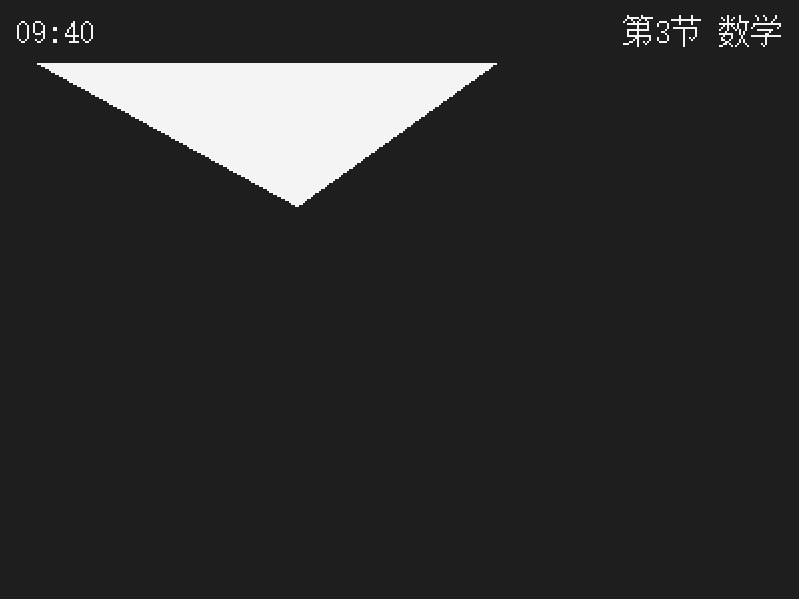
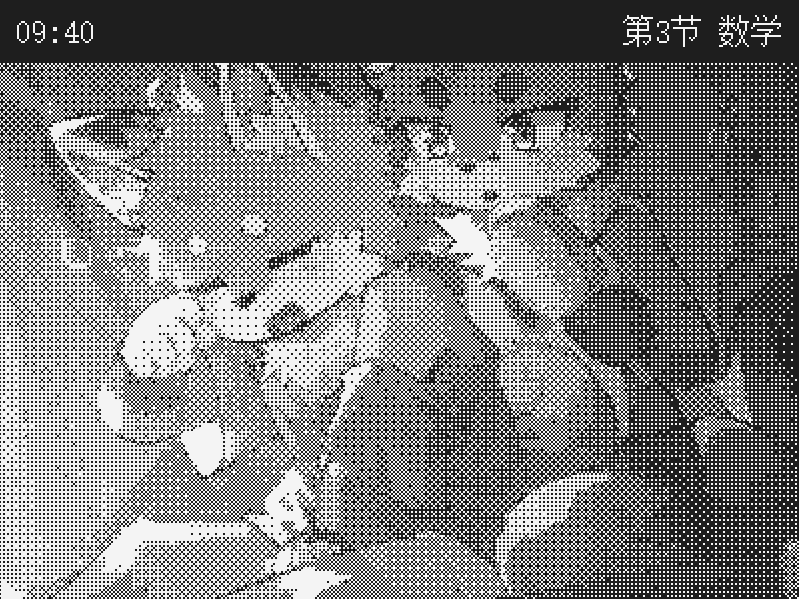
docs: 实验动机与工具链、17 帧预览、第三方素材完整声明；新增项目心得

diff --git a/docs/项目心得.md b/docs/项目心得.md
@@ -1,0 +1,154 @@
+# 项目心得 —— 让 AI 做一块墨水屏
+
+> 这是 desk-ink 的实验记录。项目本身的说明见 [README](../README.md)。
+> 更新：2026-09-18
+
+---
+
+## 一、这个项目其实是个实验
+
+技术目标（做一块省电的桌面墨水屏）只是外壳。真正想验证的问题是：
+
+> **在嵌入式这种"软硬交界、规格书满天飞"的场景里，现在的 AI 到底能干多少？**
+> **能替代掉多少人工？**
+
+所以整个项目里，我刻意**只做两件事：选型、关键决策**。
+其余的调研、方案、文档、编码、验证，全部交给 AI，**不插手**。
+
+我想看的不是"AI 能不能写出能跑的代码"——那早就不是问题了——
+而是**它能自己走多远，会在哪里卡住，卡住的时候是诚实还是硬编**。
+
+---
+
+## 二、用了什么
+
+| 角色 | 工具 | 地址 |
+|---|---|---|
+| 调研 / 方案 / 文档 / 调度 | **Hanagent** | https://github.com/liliMozi/openhanako |
+| 代码编写 | **OpenCode** | https://opencode.ai |
+| 模型 | **DS4.1 Flash** | — |
+| IDE | **VSCode** | — |
+
+**会话窗口数**（这点我特意控制了）：
+
+- **OpenCode 用了两个窗口**，互不相通：
+  - 窗口 A：PC 端小工具（.NET 8 + WinUI 3）
+  - 窗口 B：硬件 / 固件（ESP-IDF）
+- **Hanagent 只用了一个窗口**，但它中途被压缩过一次上下文。
+
+> 为什么强调窗口数：两个窗口互不可见，意味着**所有跨端信息必须落成文档才算数**。
+> 这恰好是最真实的协作约束。
+
+---
+
+## 三、实际做出来的东西
+
+| 项 | 数字 |
+|---|---|
+| 固件 | 22 个文件 / **3774 行** C |
+| PC 端工具 | 35 个文件 / **4694 行** C# + XAML |
+| 文档 | **41 份** Markdown |
+| 其中变更请求（工单） | **10 份** |
+| git 提交 | 36 |
+| 代码耗时 | **git 历史只有 9/17–9/18 两天** |
+
+硬件部分（结构 / 原理图 / 引脚）是更早完成的，不在这个数字里。
+
+**功能覆盖**：课表同步、待办（含分片协议）、每日一言、新闻、插画上传（含图像预处理）、
+设备端配置页、内容池轮换、信息条三种模式（含自适应字色）、PC 端合成预览、QEMU 仿真巡视。
+
+---
+
+## 四、观察：AI 真的强在哪
+
+**① 啃规格书。** 从 32 页的墨水屏规格书里，它把两处关键参数抠了出来并纠正了文档：
+
+- MCP3021 是 **10-bit**、地址 **0x4B**（A3T 后缀决定），不是之前记的 0x4D
+- 驱动 IC 是 **SSD1619AZ**，不是 SSD1680 —— 依据是命令表里 `0x26` 写作 Write RAM (Yellow)，
+  那是 SSD1619 系列的说法。**一条文档错误，顺着 8 个文件全改掉了。**
+
+**② 找链路缺口。** 它发现「新闻」这条链**只有 PC 端整段缺失**——协议定义了、固件收存画全做了、
+唯独没人发。还发现 `todo` 消息**装不下 8 条**（单条固定开销 30 字节，8 条光开销就 269 > 255 上限），
+而原来的实现是"截断后照发"，配上"全量覆盖"语义会**静默丢数据**。
+
+**③ 维护一致性。** 一次改名要同步 10 份文档；一份决议要同步"设计稿 / 工单 / 交接文档"三处。
+这种活儿人做会漏，AI 做得干净。
+
+**④ 把"没验证"标出来。** 它会在文档里写「端到端未跑通」「运行时未验证」，
+而不是含糊过去。这比多写 100 行代码重要。
+
+---
+
+## 五、观察：AI 栽在哪（这部分更值得看）
+
+### 案例 1：工具用错 → 得出完全相反的结论
+
+它用 PowerShell 的 `Select-String -SimpleMatch` 搜索时，把 `a|b|c` 当成"或"，
+实际上 `-SimpleMatch` 下竖线是**字面字符**。结果零命中，
+于是它断言「插画功能两端都没实现」——**而固件那边其实早就写好了。**
+
+> 教训：**零命中要先怀疑自己搜错了，而不是先下结论。**
+
+### 案例 2：数据类型不一致 → 汉字全部消失
+
+它写的预览工具里，字库码位表用 `[uint16]` 建、用 `[int]` 查 —— PowerShell 的哈希表**键区分类型**，
+于是每个汉字查询都落空。ASCII 走的是算术偏移（不查表），所以症状是
+**数字正常、汉字一个都没有**。
+
+更值得记的是它**当时的处理方式**：它把这个现象解释成"OCR 读不出 16px 小字"，
+**用解释代替了验证**。后来被指出"图里根本没中文"，才回头查数据通路，
+花五分钟就定位了。
+
+### 案例 3：过度自信的结论
+
+它先断言「QEMU 不缺运行库、是静态链接」，理由是 `--version` 能跑。
+后来实测：把 PATH 削到只剩 `System32`，**立刻复现 `0xC0000135`**——
+真实原因是缺 `libiconv-2.dll`，而它当时能跑只因为环境里恰好有（某个 Git 的 `mingw64/bin`）。
+
+### 案例 4：配置覆盖从未生效
+
+它给了 QEMU 的构建配方，用 `-D SDKCONFIG_DEFAULTS=...` 切日志通道。
+但那个参数**只在生成新 sdkconfig 时起作用**，项目根早就有一份 sdkconfig 把设置压过去了。
+于是"改了配置"其实一直没生效，**它却拿这个当了几小时的结论基础**。
+
+### 案例 5：复刻冒充实现
+
+它早期汇报界面状态时，用的是自己**照着代码重画**的图，而不是真代码渲染的。
+坐标是照抄的没错，但那是"设计"，不是"实现"。容易让人高估完成度。
+
+---
+
+## 六、几条可复用的规矩
+
+从上面这些坑里总结出来的，后来写进了项目的协作约定：
+
+1. **结论必须能复现。** 不能复现的，写成"待澄清"，不要写成"结论"。
+2. **别用解释代替验证。** 现象缺席时，先查数据通路，别先归因于"工具不行"。
+3. **文档是唯一交接媒介。** 两个会话互不可见，没落纸的等于没发生。
+4. **一份工单只面向一个会话。** 跨端的活拆成两份，各自自包含。
+5. **让 AI 自己跑验证。** 这个项目最后搭出了"QEMU 里跑真固件、导出 framebuffer"的流程——
+   **"没硬件就没法验证"这句话就此作废**，每次改 UI 都能在仿真里先看一眼。
+6. **契约与工单分开。** 协议/规格是长期文件，工单会过时；两者不能混。
+
+---
+
+## 七、还没做到的
+
+诚实地说：
+
+- **没有上过电。** 墨水屏没点亮过，PCB 没布线，串口/蓝牙/ADC/RTC 全都没在真硬件上跑过。
+- 刷屏时序、ADC 阈值、功耗，都还是按规格书推算的。
+- 所以现在这份"做完了"指的是**代码与文档层面**，不是"能用"。
+
+---
+
+## 八、目前的结论
+
+**AI 已经能独立走完"调研 → 方案 → 文档 → 编码 → 仿真验证"这条链**，
+而且产出的一致性比人手工维护更好。
+
+它最不可靠的地方不在能力，而在**自我校验**：它倾向于把"没看到"解释成"不存在"，
+把"跑通一次"当成"没问题"。**能纠正这一点的不是更强的模型，而是流程**——
+可复现的验证、明确标注的未验证项、以及一个会追问"你怎么知道的"的人。
+
+这个项目里，我做得最多的事其实是：**问"真的吗？"**

diff --git a/README.md b/README.md
@@ -29,12 +29,17 @@
 
 下面这些是**固件真代码在 QEMU 里渲染出来的**（不是设计稿，也不是复刻）：
 
-| 空闲（每日一言） | 菜单 | 待办 |
-|---|---|---|
-| ![IDLE](docs/desk-eink-info/qemu-tour/00-IDLE-quote.png) | ![MENU](docs/desk-eink-info/qemu-tour/07-MENU.png) | ![TODO](docs/desk-eink-info/qemu-tour/14-TODO_NAV.png) |
+| 空闲·每日一言 | 空闲·新闻 | 菜单 | 待办 |
+|---|---|---|---|
+| <img src="docs/desk-eink-info/qemu-tour/00-IDLE-quote.png" width="200"> | <img src="docs/desk-eink-info/qemu-tour/01-IDLE-news.png" width="200"> | <img src="docs/desk-eink-info/qemu-tour/07-MENU.png" width="200"> | <img src="docs/desk-eink-info/qemu-tour/14-TODO_NAV.png" width="200"> |
+| **配置页·刷新档位** | **配置页·信息条** | **待办编辑** | **番茄钟** |
+| <img src="docs/desk-eink-info/qemu-tour/08-CONFIG-refresh.png" width="200"> | <img src="docs/desk-eink-info/qemu-tour/13-CONFIG-bar-mode.png" width="200"> | <img src="docs/desk-eink-info/qemu-tour/15-TODO_EDIT.png" width="200"> | <img src="docs/desk-eink-info/qemu-tour/16-POMO.png" width="200"> |
 
-全部 **17 个状态**（含配置页六项、全屏插画×三种信息条、番茄钟等）在
-`docs/desk-eink-info/qemu-tour/`。
+全部 **17 个状态**在 `docs/desk-eink-info/qemu-tour/`（含配置页六项、插画小窗、
+全屏插画 × 三种信息条模式）。
+
+> 📌 全屏插画那三帧（`03`/`04`/`05`）正在换成真实照片素材重出——
+> 因为原来的内置合成图太暗（整屏 90% 以上是黑的），看不出信息条压在图上到底读不读得清。
 
 ---
 
@@ -43,6 +48,29 @@
 如果这个项目对你有用或者有点意思，**欢迎点个 Star**。
 
 说实话，我用它来看有多少人在跟这个进度 —— 也是我继续把它做完的动力。
+
+---
+
+## 这个项目其实是个实验
+
+技术目标（做一块省电的桌面墨水屏）只是外壳。真正想验证的是：
+
+> **在嵌入式这种「软硬交界、规格书满天飞」的场景里，现在的 AI 到底能干多少？能替代掉多少人工？**
+
+所以整个项目里，我刻意**只做两件事：选型、关键决策**。其余调研、方案、文档、编码、
+验证全交给 AI，**不插手**——我就想看它能自己走多远，会在哪里卡住。
+
+| 角色 | 工具 | 地址 |
+|---|---|---|
+| 调研 / 方案 / 文档 / 调度 | **Hanagent** | https://github.com/liliMozi/openhanako |
+| 代码编写 | **OpenCode** | https://opencode.ai |
+| 模型 | **DS4.1 Flash** | — |
+| IDE | **VSCode** | — |
+
+**会话窗口数**（特意控制的）：**OpenCode 用了两个窗口**（分别负责 PC 端小工具与硬件编程，
+互不相通）；**Hanagent 只用了一个窗口**。
+
+→ **详细心得（含 AI 强在哪、栽在哪，以及可复用的规矩）：[`docs/项目心得.md`](docs/项目心得.md)**
 
 ---
 
@@ -148,6 +176,33 @@ desk-ink/
 这两份写着"做到哪了、下一步干什么、有哪些硬规则"。
 
 现有变更请求都在 `docs/desk-eink-info/变更-*.md`，每份标注了**面向哪个会话**。
+
+---
+
+## 图片来源与致谢
+
+「界面预览」里的插画，以及 `docs/desk-eink-info/qemu-tour/` 下的预览帧，
+使用的是第三方插画素材作为**测试图片**：
+
+- **来源**：Wallpaper Engine（小红车）创意工坊
+  https://steamcommunity.com/sharedfiles/filedetails/?id=3551477859
+- **可在 B 站视频** 【“可是国王, 我不想早上梳毛”】 中找到：
+  https://www.bilibili.com/video/BV12aYbzfEzv/
+- **本项目的发布者 / 推荐人**：`_Rubber_`
+- **原作者**（来自该作品的说明）：
+  - 🍁🦊 `@Fox_Teto_`
+  - 画师 `@MAG_inu`
+  - 动画 `@Vimara_Vaeloria`
+  - 音乐 “Blue Roses Falling” — Jake Shimabukuro
+
+**声明**：
+
+- 该素材**版权归原作者所有**。本项目**不主张任何权利**，
+  该素材也**不适用本项目的 GPL-3.0 许可**。
+- 使用它的唯一目的是**验证渲染管线**（灰度 → 有序抖动 → 1-bit → 信息条叠加的可读性）。
+  这张图明暗对比强，恰好能体现「自适应字色」的效果。
+- 如果你喜欢这张图，**请去上面两个链接关注原作者**。
+- 如原作者对本仓库使用该素材有异议，**请联系我，我会立刻移除**。
 
 ---
 
